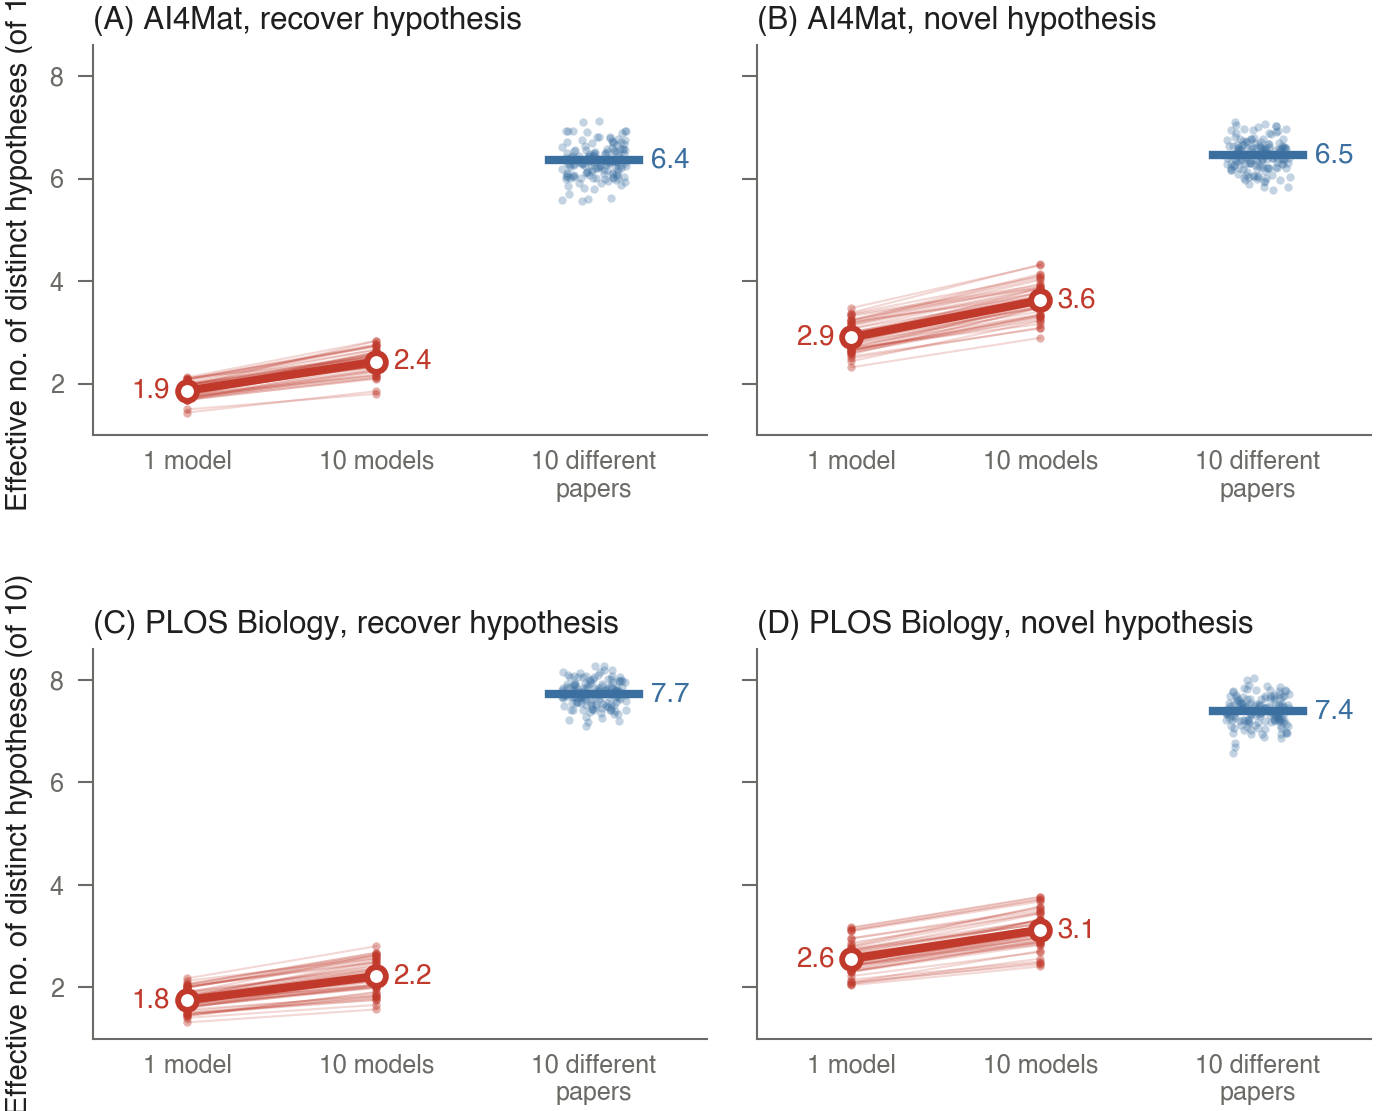
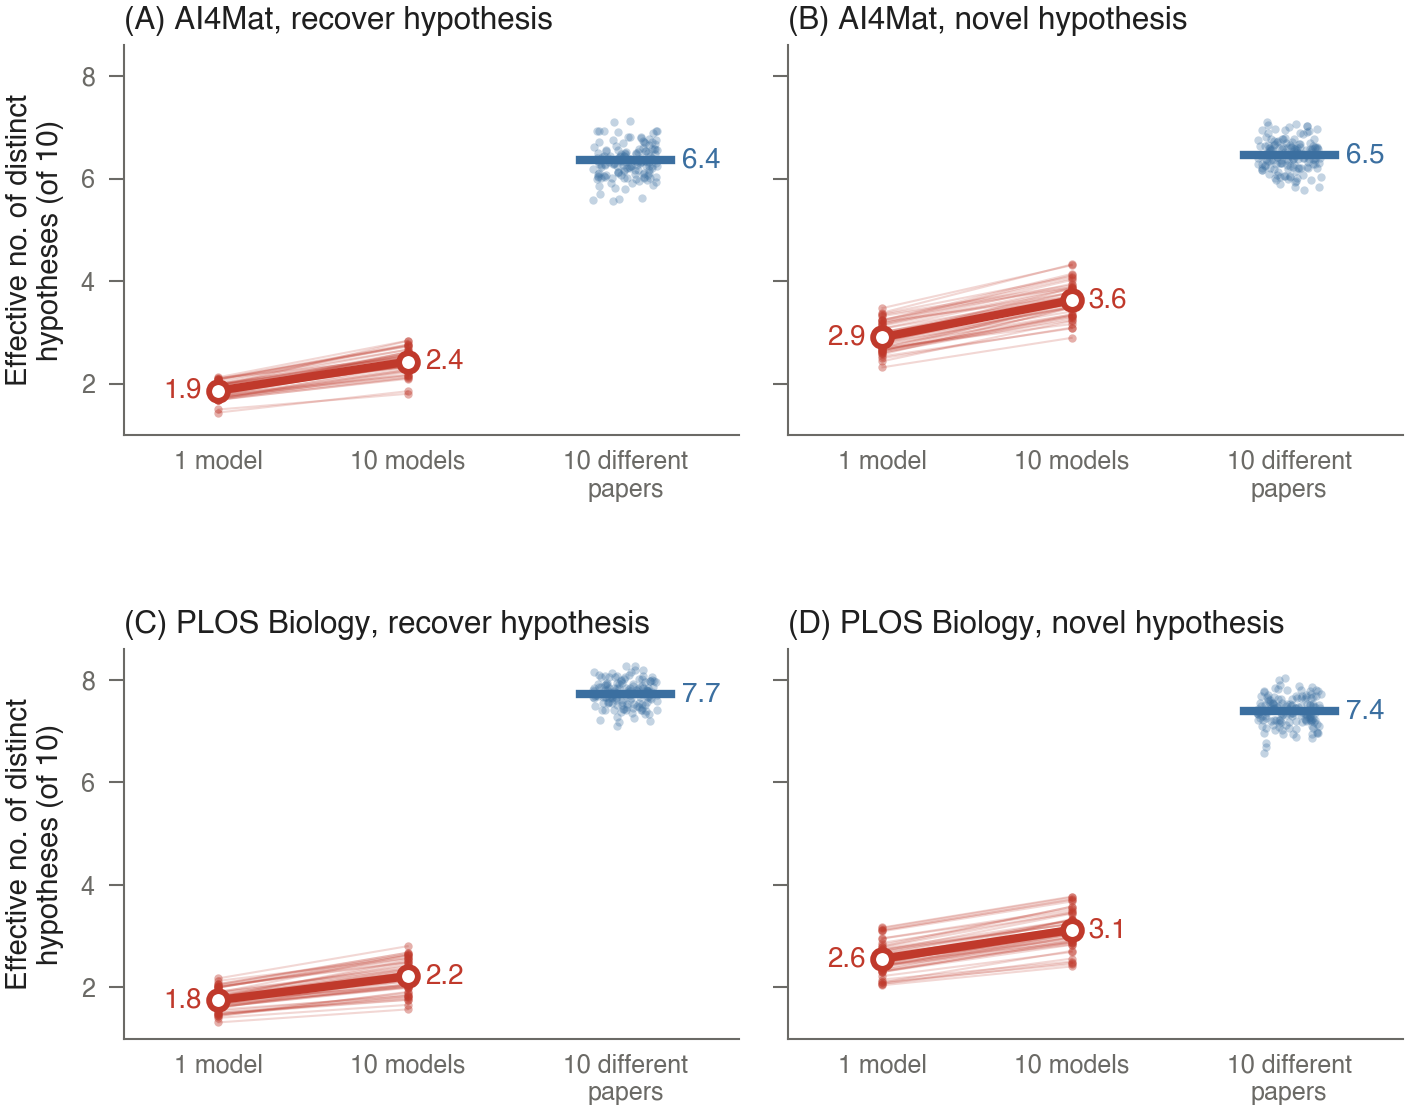
Fix models table for scaling; wrap Fig. 4 y-axis label
- models.tex now scales its own tabular to the line width and keeps the
  settings notes in a minipage, so it can be \input anywhere
- Fig. 4 slope chart: two-line y-axis label so it is not clipped
- Keep the local paper/ directory out of git

diff --git a/make_paper_assets.py b/make_paper_assets.py
@@ -198,7 +198,8 @@ def models_table() -> str:
                 routes.append(r)
             cells[m.slug, d.key] = "abcdefgh"[routes.index(r)]
     lines = [
-        "% Generated by make_paper_assets.py",
+        "% Generated by make_paper_assets.py. Scales itself to the line width.",
+        "\\resizebox{\\linewidth}{!}{%",
         "\\begin{tabular}{lllc" + "c" * len(DATASETS) + "}",
         "\\toprule",
         "Model & Provider & Identifier & Open weights & "
@@ -211,12 +212,13 @@ def models_table() -> str:
             f"{m.name} & {m.provider} & \\texttt{{{m.slug}}} & {check} & "
             + " & ".join(f"({cells[m.slug, d.key]})" for d in DATASETS.values()) + " \\\\"
         )
-    lines += ["\\bottomrule", "\\end{tabular}", "", "\\smallskip", "{\\footnotesize"]
+    lines += ["\\bottomrule", "\\end{tabular}}", "", "\\smallskip",
+              "\\begin{minipage}{\\linewidth}\\footnotesize\\raggedright"]
     lines += [f"({'abcdefgh'[i]}) {r}.\\\\" for i, r in enumerate(routes)]
     lines += [
         f"All models: {N_SAMPLES} independent samples per paper and task; no seed; "
         f"outputs embedded with \\texttt{{{EMBEDDING_MODEL.split('/')[-1]}}}.",
-        "}",
+        "\\end{minipage}",
         "",
     ]
     return "\n".join(lines)

diff --git a/paper_assets/tables/models.tex b/paper_assets/tables/models.tex
@@ -1,4 +1,5 @@
-% Generated by make_paper_assets.py
+% Generated by make_paper_assets.py. Scales itself to the line width.
+\resizebox{\linewidth}{!}{%
 \begin{tabular}{lllccc}
 \toprule
 Model & Provider & Identifier & Open weights & AI4Mat & PLOS Biology \\
@@ -16,13 +17,13 @@ GPT-5 Nano & OpenAI & \texttt{openai/gpt-5-nano} &  & (d) & (c) \\
 GPT-5 Mini & OpenAI & \texttt{openai/gpt-5-mini} &  & (d) & (c) \\
 GPT-5 & OpenAI & \texttt{openai/gpt-5} &  & (d) & (c) \\
 \bottomrule
-\end{tabular}
+\end{tabular}}
 
 \smallskip
-{\footnotesize
+\begin{minipage}{\linewidth}\footnotesize\raggedright
 (a) Anthropic API; max\_tokens 4096; default temperature (1.0).\\
 (b) OpenRouter (Anthropic protocol); max\_tokens 4096; default temperature.\\
 (c) OpenRouter; max\_tokens 8192; reasoning effort \texttt{low}; default temperature.\\
 (d) OpenAI API; temperature 1.0; default reasoning effort.\\
 All models: 10 independent samples per paper and task; no seed; outputs embedded with \texttt{text-embedding-3-small}.
-}
+\end{minipage}

diff --git a/figures.py b/figures.py
@@ -329,7 +329,7 @@ def diversity_slopes(grid: list[list[tuple[str, dict]]], path: Path, seed: int =
             for side in ("top", "right"):
                 ax.spines[side].set_visible(False)
             if c == 0:
-                ax.set_ylabel(VENDI_LABEL)
+                ax.set_ylabel("Effective no. of distinct\nhypotheses (of 10)")
             _panel_label(ax, next(letter), title)
     _save(fig, path)
 
